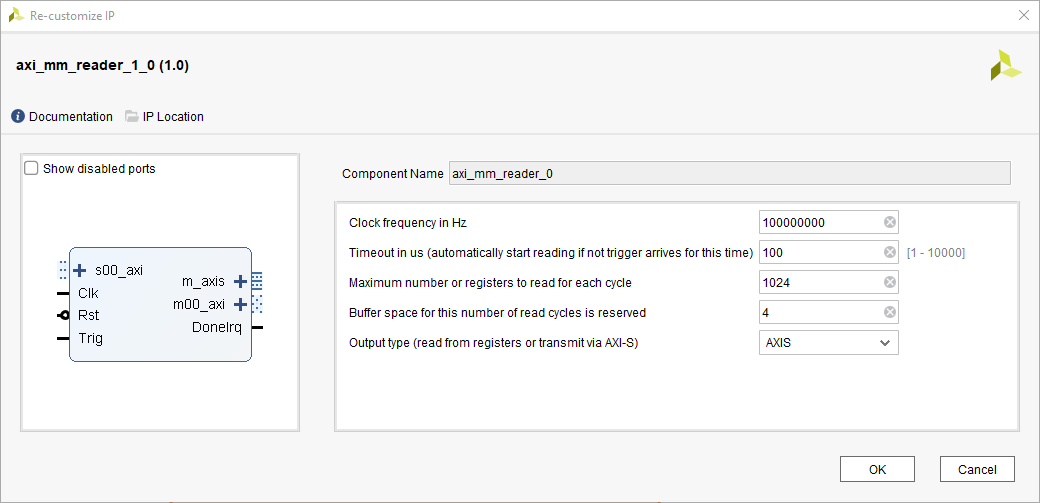
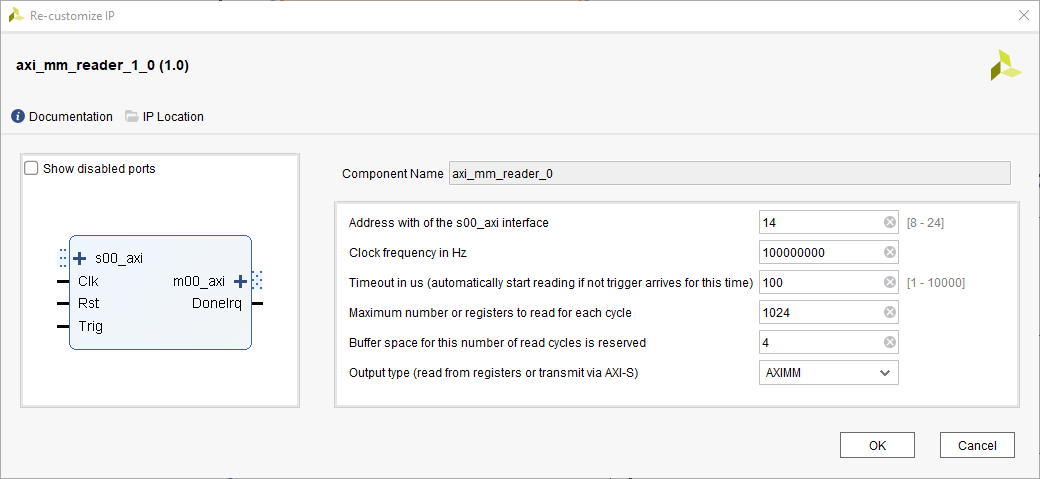
DEVEL: Added AXI interface address width

diff --git a/doc/Documentation.md b/doc/Documentation.md
@@ -39,6 +39,8 @@ The figure below shows the configuration GUI:
 ![ipi-gui](./pics/ipi-gui.png)
 
 The parameters are briefly described here:
+* **Address Width of the s00_axi interface**
+  * The address width must be set to at least **_ceil(log2(MaxRegisters x 4 + 32))_** 
 * **Clock frequency in Hz**
   * The clock frequency is required to calculate the timeout (see below)
 * **Timeout in us**
